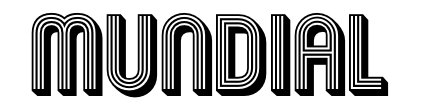
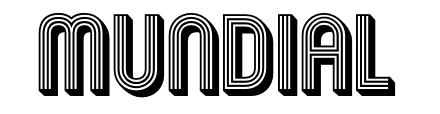
sixth commit

diff --git a/style.css b/style.css
@@ -74,7 +74,7 @@ header div#logo  {
   display: block;
   vertical-align: middle;
   padding-top: 3rem;
-  padding-left: 1rem;
+  padding-right: 2rem;
   clear:both;
   margin: 0px auto;
   opacity: 1;
@@ -313,7 +313,6 @@ article section {
 article.clearfix {
     content: " "; /* Older browser do not support empty content */
    visibility:visible;
-   height: 0px;
    clear: both;
 
 }

diff --git a/index.html b/index.html
@@ -17,7 +17,7 @@
     </div>
       <header id="main_header" class="main_header" role="banner">
         <div class="logo_container">
-          <div id="logo" <img src="./img/mundial.png" alt="logo">
+          <div id="logo" ><img src="./img/mundial.png" alt="logo">
           </div>
         </div>
       </header>
